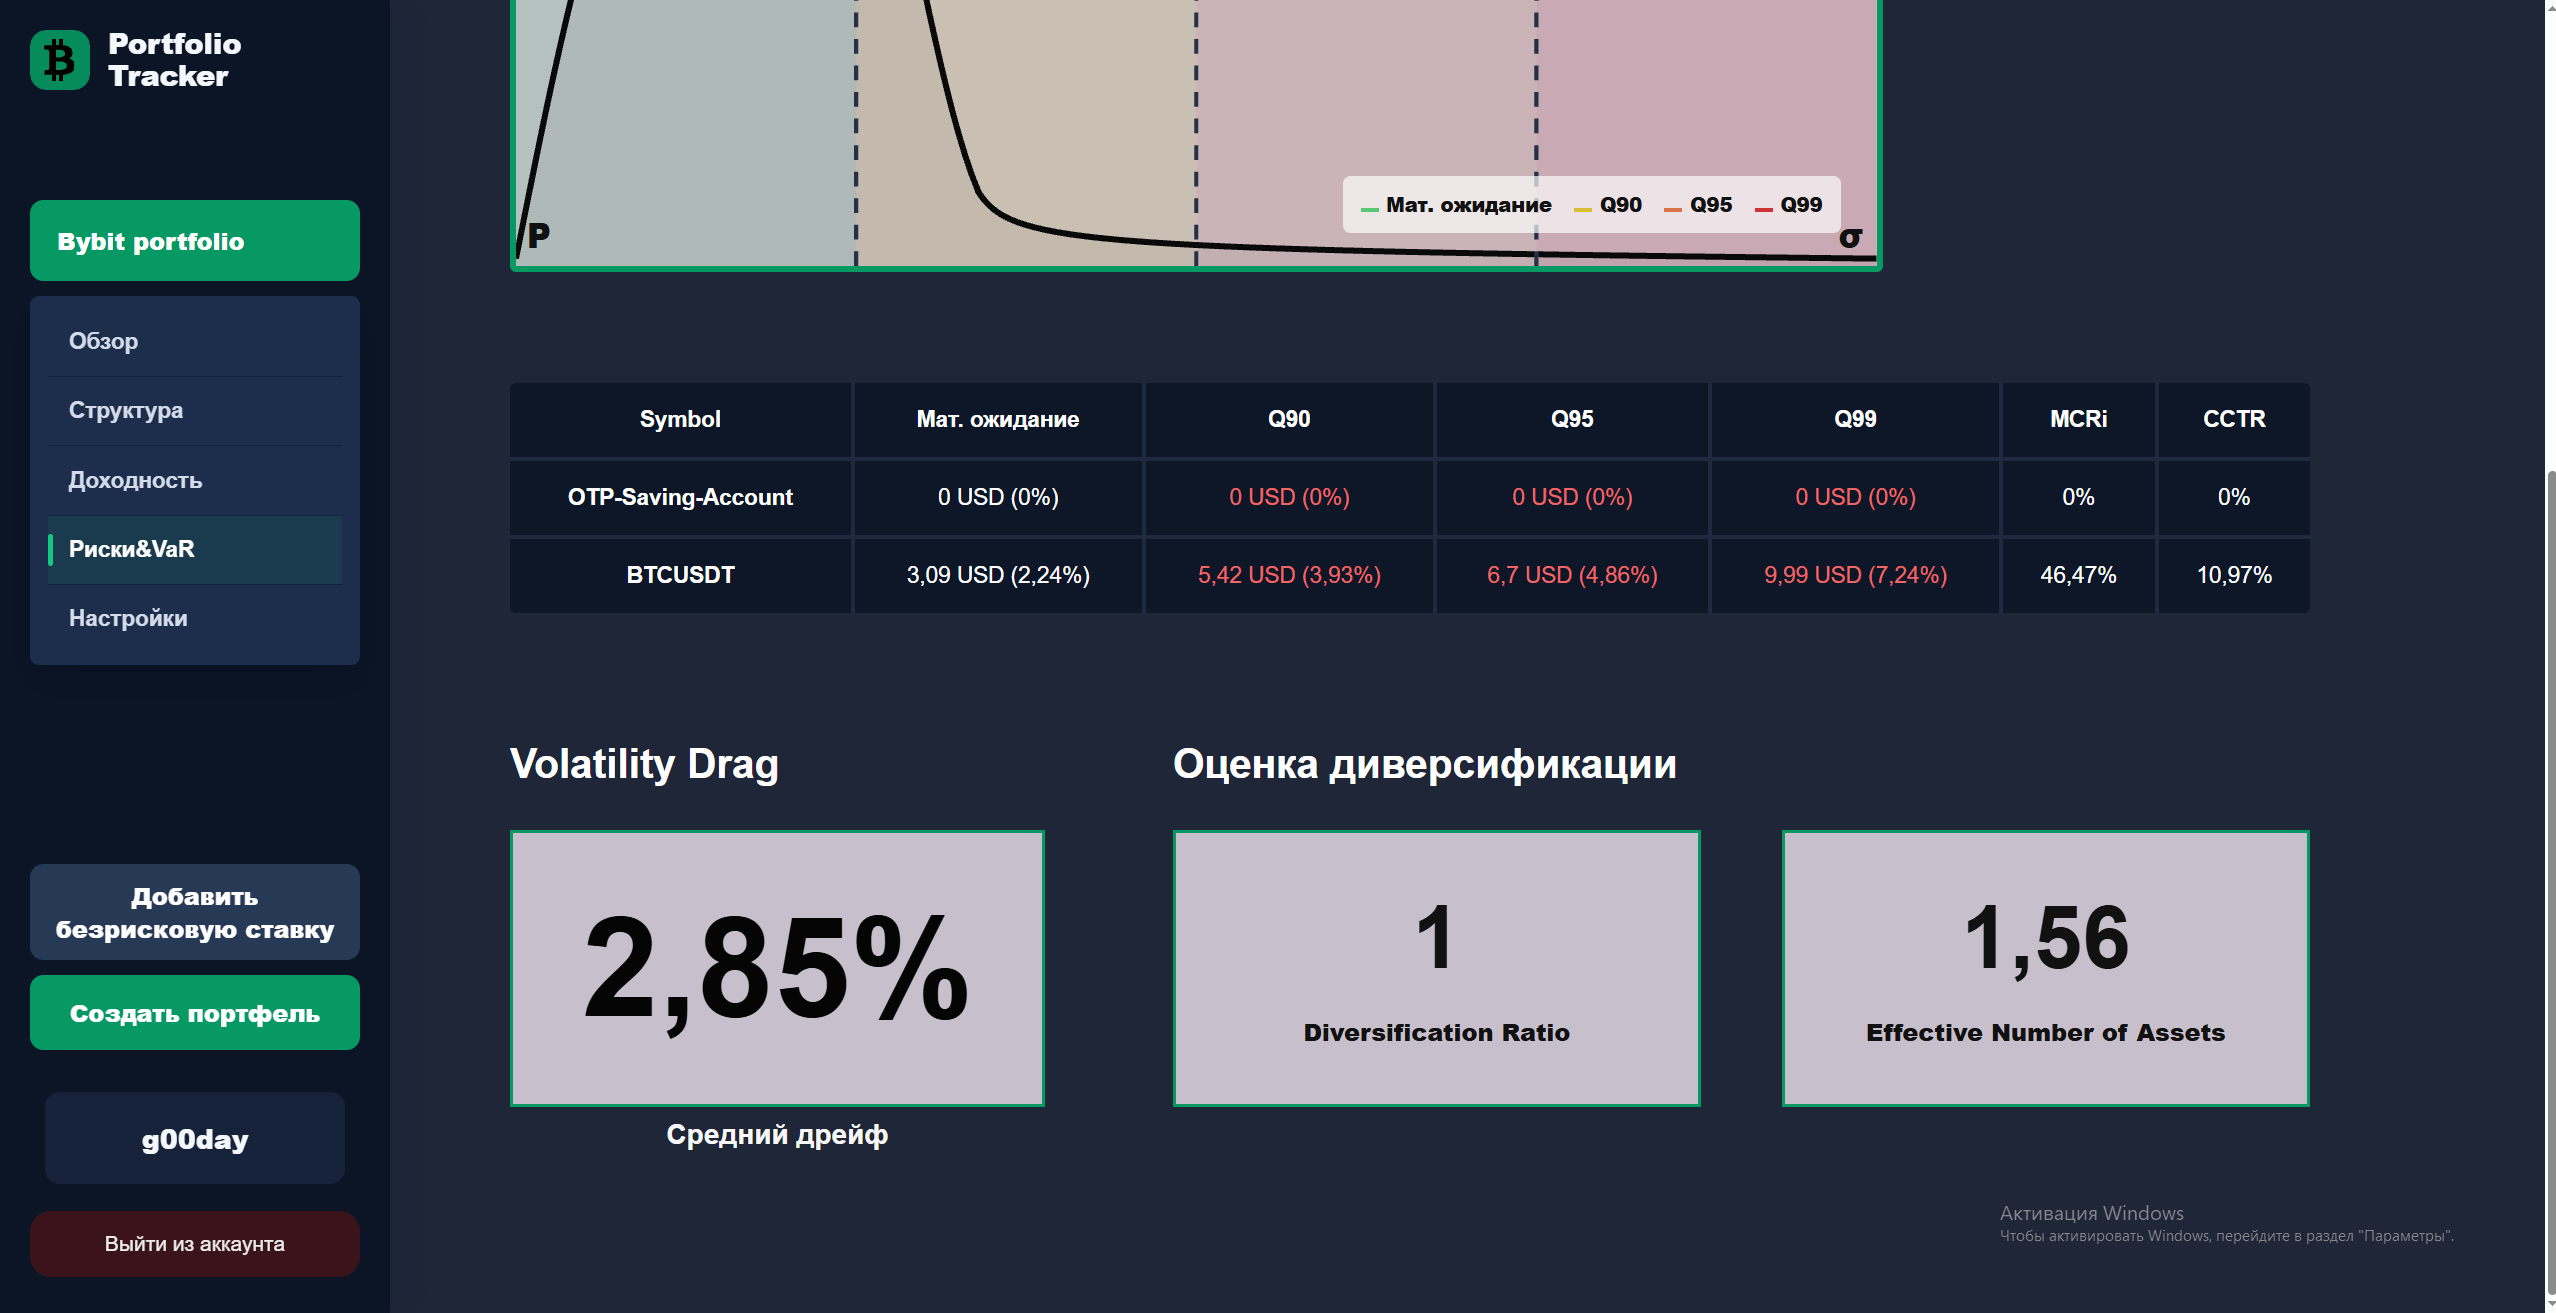
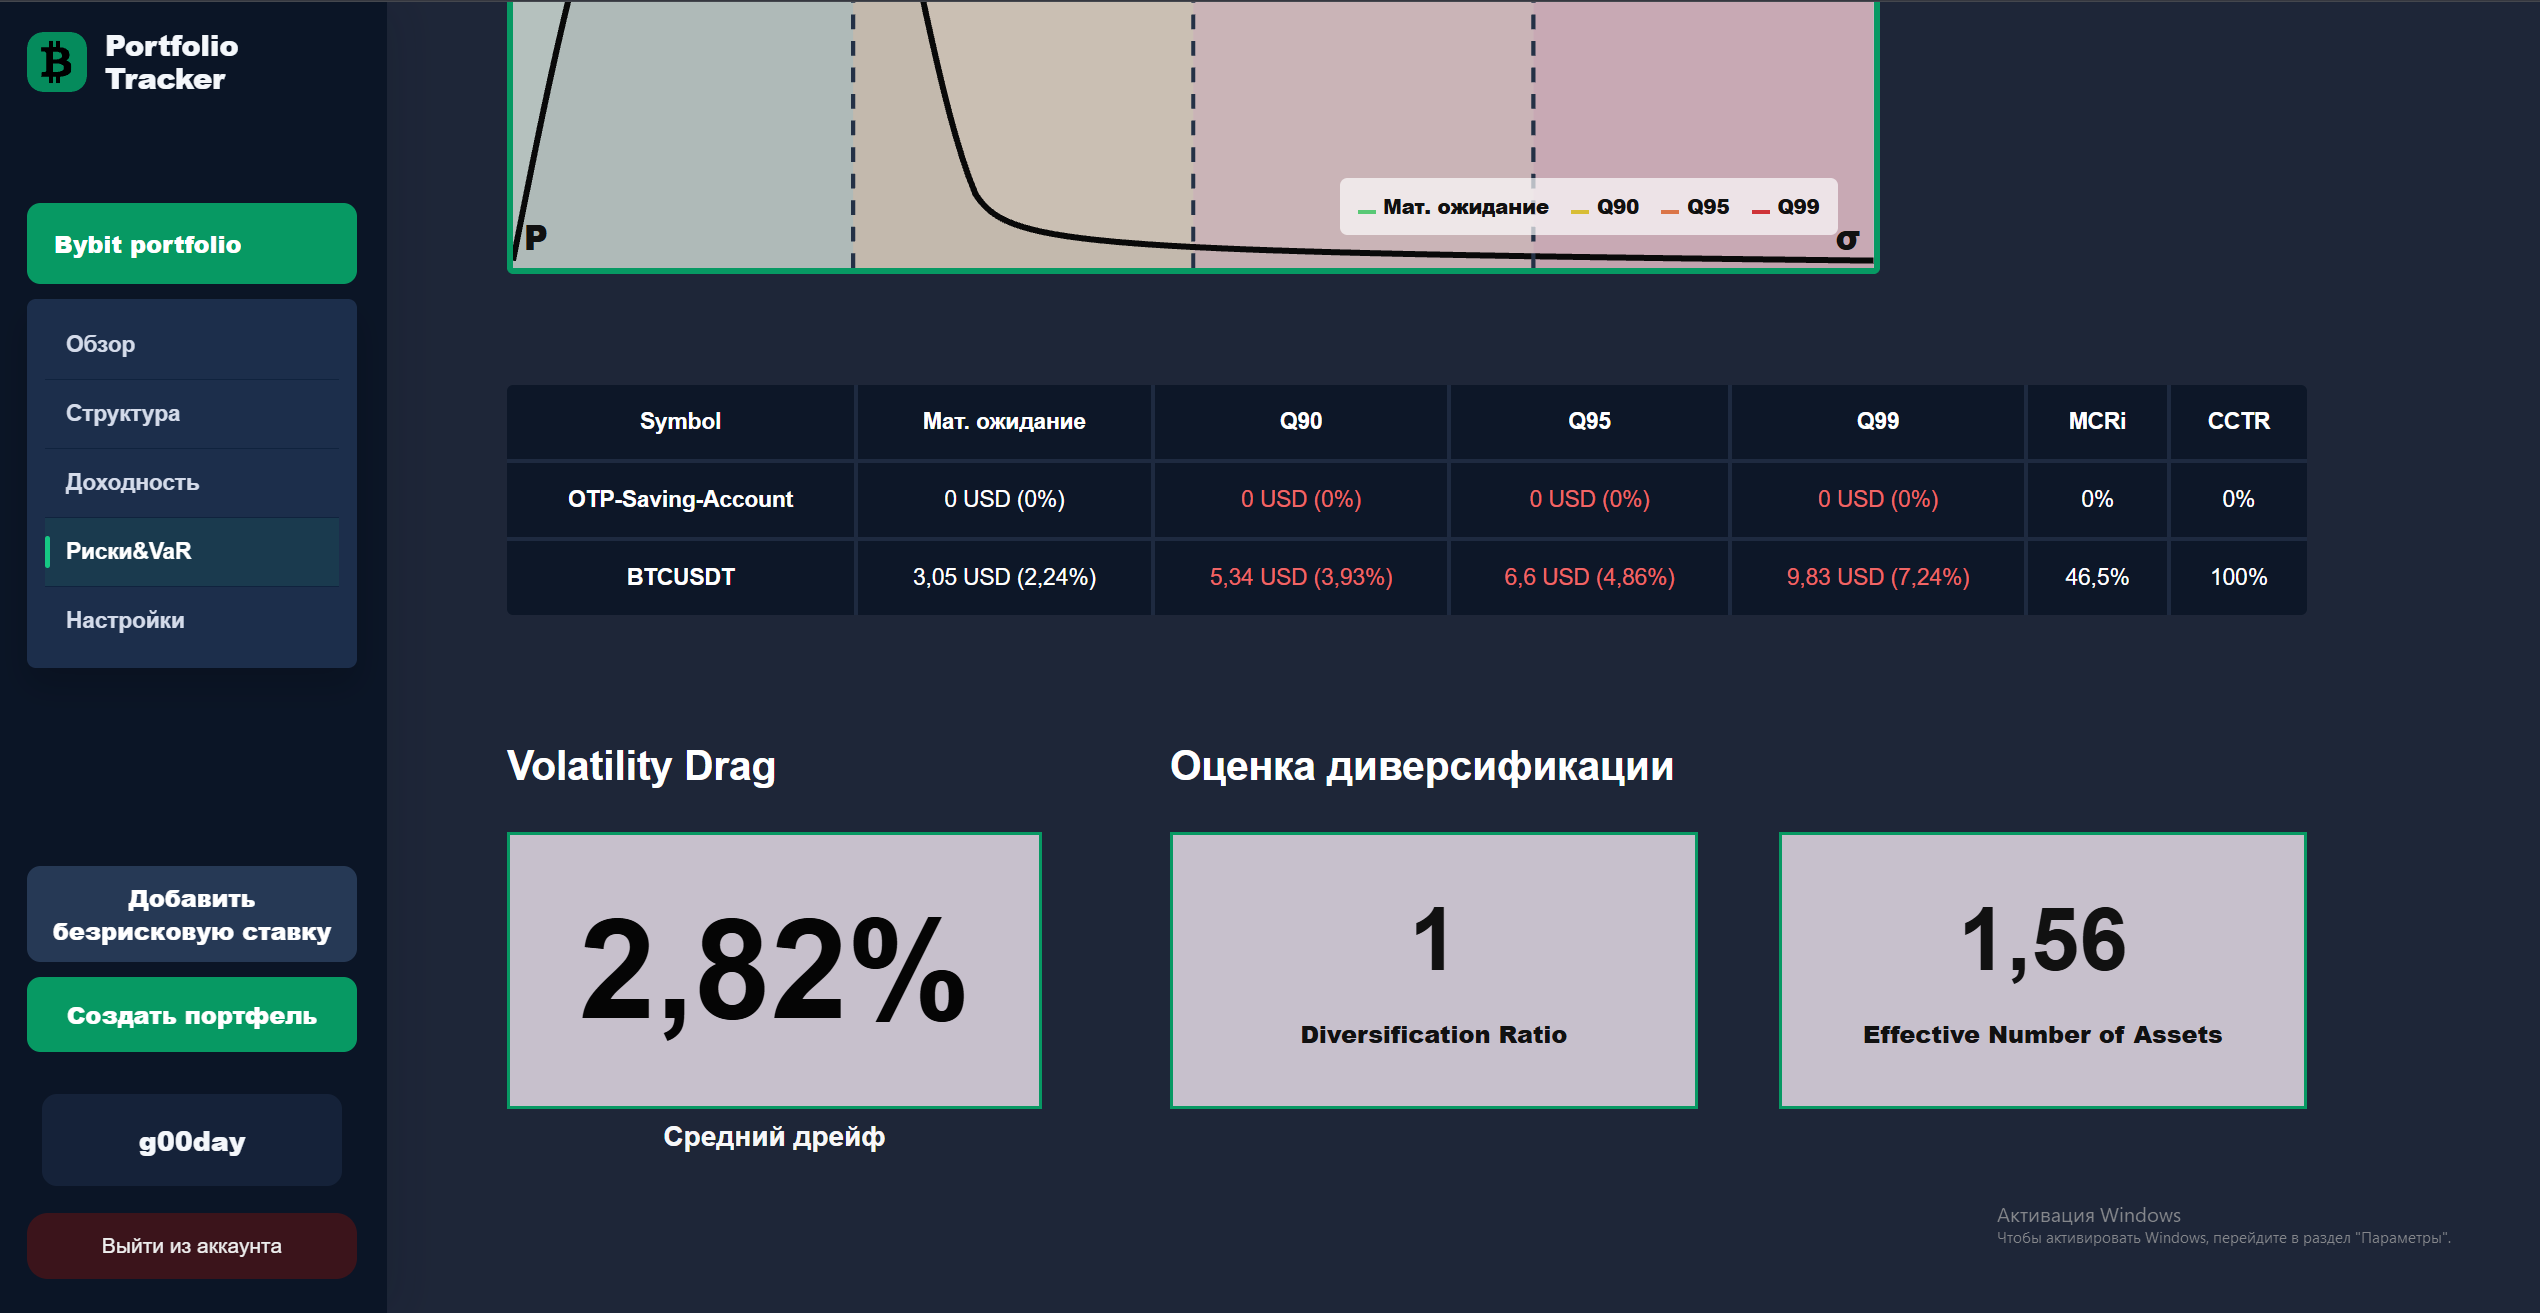
changed CCR calculation to CCRT and changed assets/image.png

diff --git a/backend/internal/service/portfolio_tools.go b/backend/internal/service/portfolio_tools.go
@@ -219,28 +219,30 @@ func (p *Portfolio) CalculateMarginalAndComponentContributions(covariationMatrix
 		return []float64{}, []float64{}
 	}
 
-	generalVolatility := p.CalculateGeneralVolatility(covariationMatrix) // general portfolio volatility
+	generalVolatility := p.CalculateGeneralVolatility(covariationMatrix) // daily portfolio volatility
 
 	// if the volatility is equals to zero return empty slices
 	if generalVolatility == 0 {
 		return []float64{}, []float64{}
 	}
 
+	annualVolatility := generalVolatility * SQRT_365
+
 	mcr := make([]float64, n)
 	cctr := make([]float64, n)
 
-	// 3. Calculate MCR and CCR througout one loop
+	// Calculate MCR (annualized) and CCTR (percentage share of total risk)
 	for i := 0; i < n; i++ {
 		sigmaW_i := 0.0
 		for j := 0; j < n; j++ {
 			sigmaW_i += covariationMatrix[i][j] * assets[j].W
 		}
 
-		// MCR
+		// Annualized Marginal Contribution to Risk
 		mcr[i] = (sigmaW_i / generalVolatility) * SQRT_365
 
-		// CCTR = w_i * MCR_i
-		cctr[i] = (assets[i].W * mcr[i])
+		// Component Contribution to Total Risk (sum across all assets = 1.0 / 100%)
+		cctr[i] = (assets[i].W * mcr[i]) / annualVolatility
 	}
 
 	return mcr, cctr
